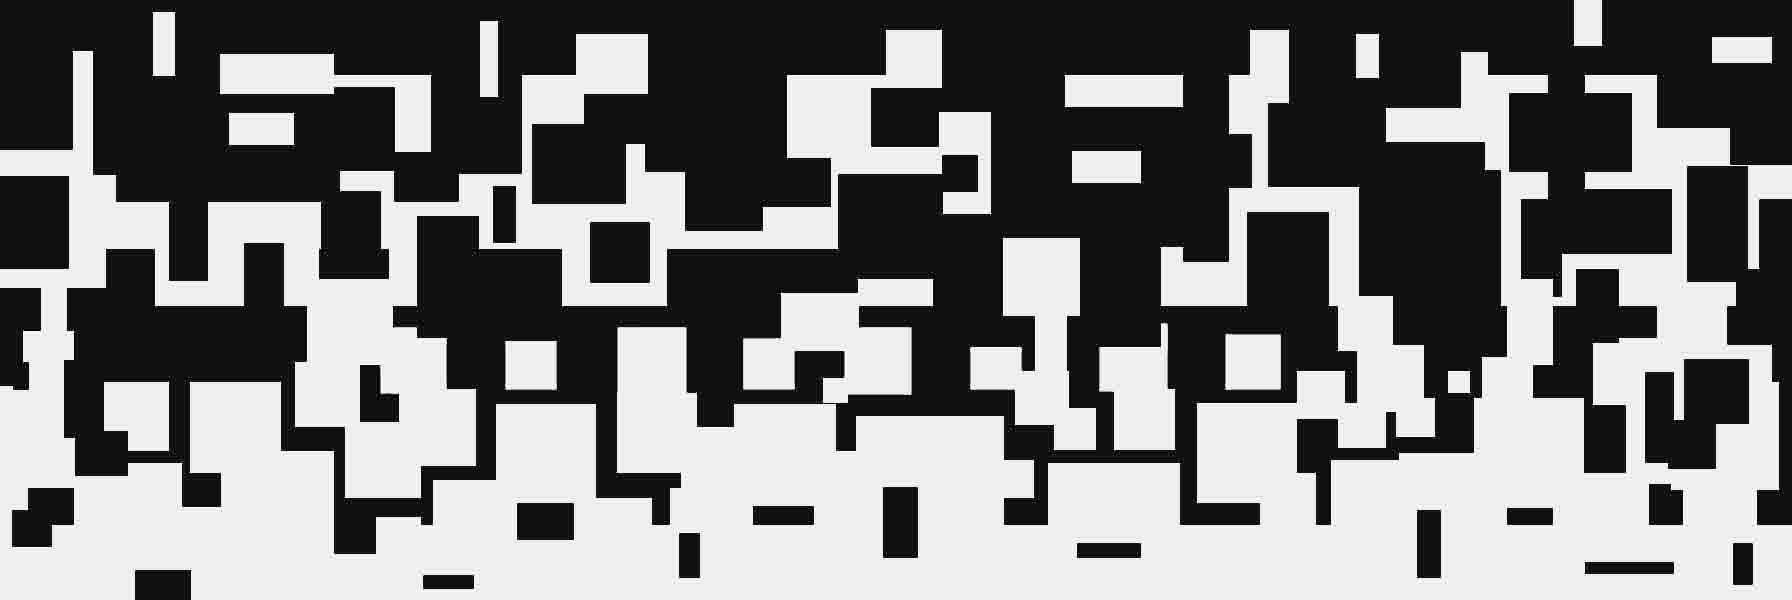
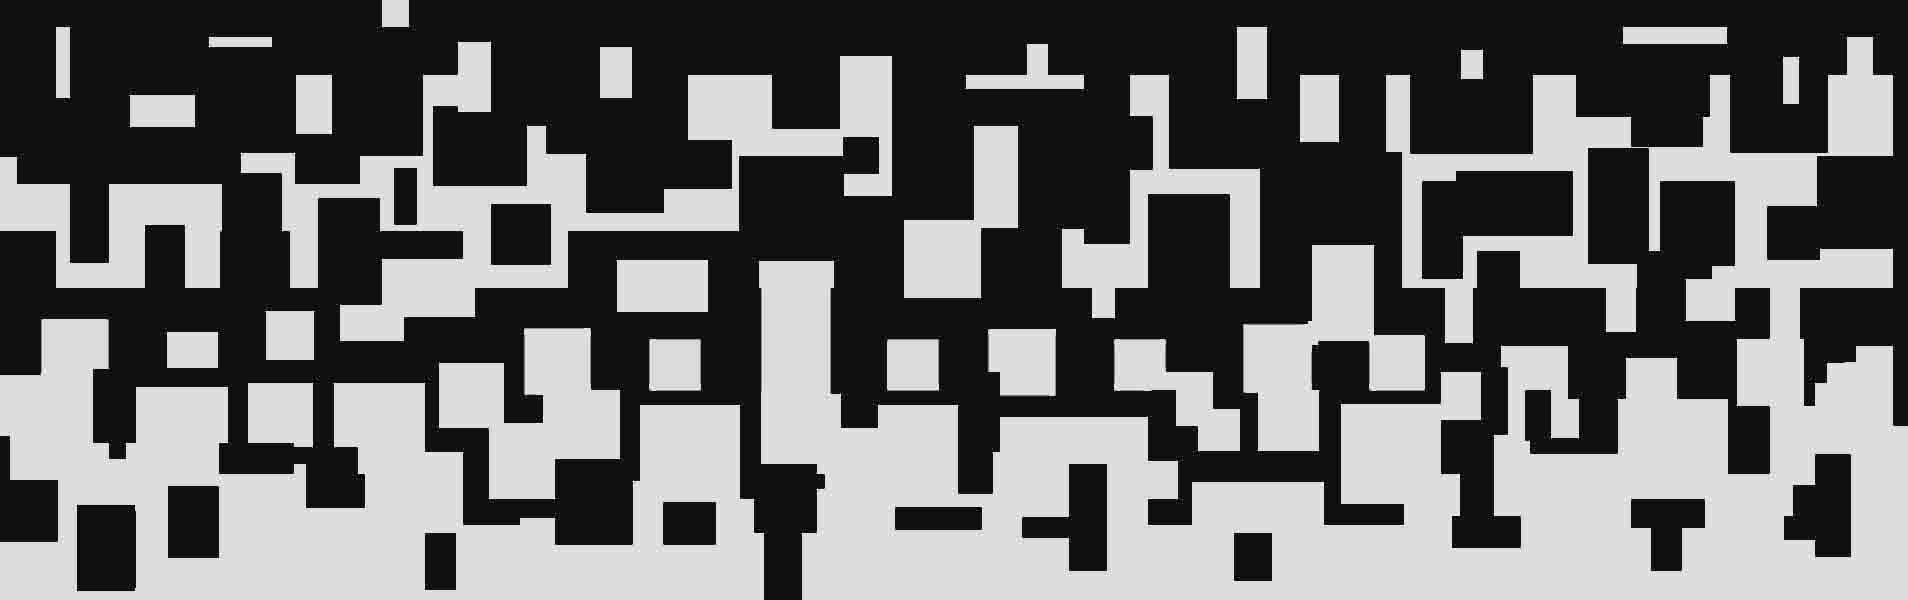
Adjust square transition and styles

diff --git a/styles/components/square-transition.scss b/styles/components/square-transition.scss
@@ -2,9 +2,14 @@
   & {
     background-image: url('/static/images/square-transition-small.jpg');
     background-repeat: repeat-x;
-    background-size: auto 400px;
-    height: 400px;
+    background-size: auto 300px;
+    height: 300px;
     margin-bottom: -1px;
+
+    @include atSmall {
+      background-size: auto 400px;
+      height: 400px;
+    }
   }
 
   &--reversed {

diff --git a/pages/about.js b/pages/about.js
@@ -101,6 +101,10 @@ const About = () => {
 
         <PageSpace base={3} atSmall={1} atMedium={3} />
       </Wrapper>
+
+      <SquareTransition  reversed/>
+
+      <PageSpace base={2} />
     </Page>
   );
 };

diff --git a/styles/components/wrapper.scss b/styles/components/wrapper.scss
@@ -8,7 +8,7 @@
   }
 
   &--light {
-    background-color: #eee;
+    background-color: #ddd;
   }
 
   &__content {
